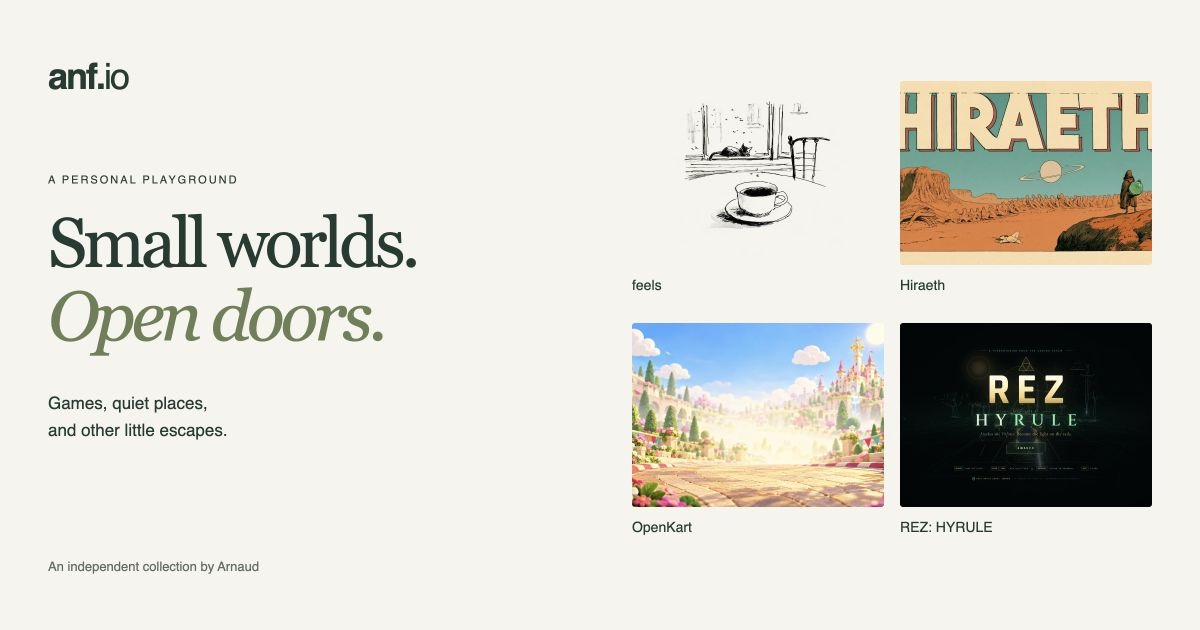
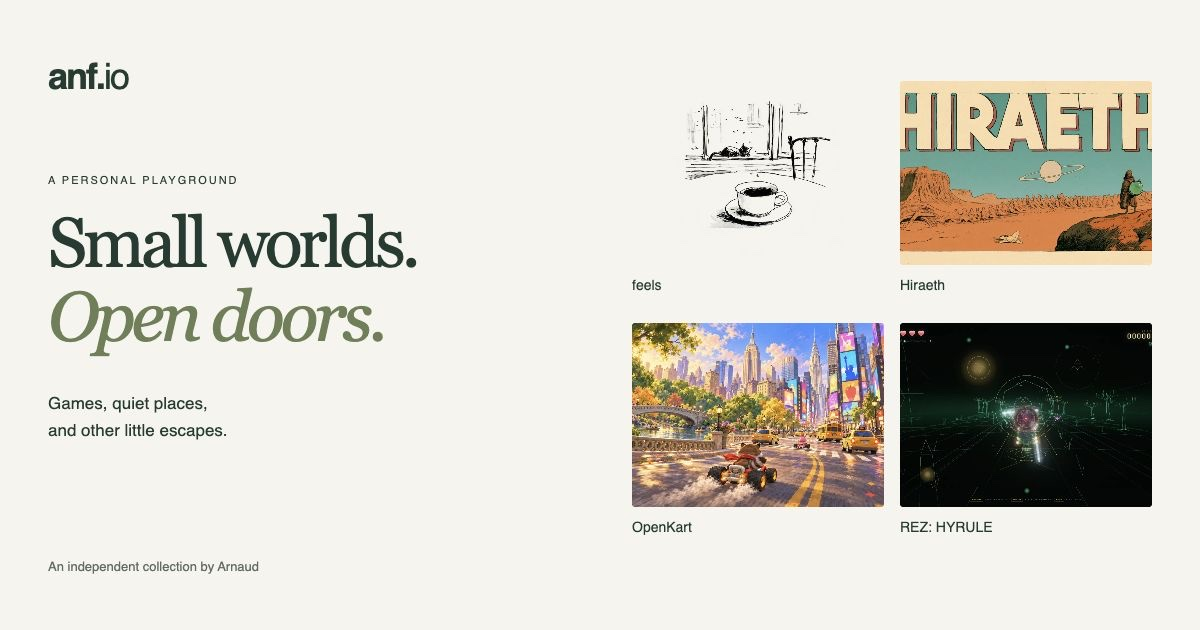
Show NYC track reference and REZ gameplay on project cards

diff --git a/index.html b/index.html
@@ -75,7 +75,7 @@
 
             <a class="project openkart" href="https://rnaud.github.io/openkart/" aria-labelledby="openkart-title openkart-action" aria-describedby="openkart-description">
               <div class="project-art">
-                <img src="/assets/openkart.webp" width="1200" height="675" alt="OpenKart garden artwork: a sunlit course winds through flowers toward a pastel castle" loading="lazy" decoding="async">
+                <img src="/assets/openkart-nyc.webp" width="960" height="540" alt="New York Rush track reference: animal racers drift past Central Park, yellow taxis, and the Manhattan skyline" loading="lazy" decoding="async">
                 <span class="art-index" aria-hidden="true">03</span>
                 <span class="art-tag">One more lap</span>
               </div>
@@ -86,7 +86,7 @@
 
             <a class="project rez" href="https://rnaud.github.io/rez-hyrule/" aria-labelledby="rez-title rez-action" aria-describedby="rez-description">
               <div class="project-art">
-                <img src="/assets/rez-hyrule.webp" width="1200" height="750" alt="REZ: HYRULE title screen glowing gold and green over a wireframe kingdom" loading="lazy" decoding="async">
+                <img src="/assets/rez-hyrule-gameplay.webp" width="1200" height="750" alt="REZ: HYRULE gameplay: the glowing hero targets enemies along green wireframe rails" loading="lazy" decoding="async">
                 <span class="art-index" aria-hidden="true">04</span>
                 <span class="art-tag">Follow the rhythm</span>
               </div>

diff --git a/README.md b/README.md
@@ -55,8 +55,8 @@ The thumbnails reuse artwork from the projects, resized and encoded locally:
 
 - `feels.webp`: feels’ selected home illustration (`public/references/midjourney/home.png`).
 - `hiraeth.webp`: Hiraeth’s desert title artwork (`references/Title Screen/A4-desert.jpg`).
-- `openkart.webp`: OpenKart’s garden menu artwork (`assets/ui/storybook-garden.webp`).
-- `rez-hyrule.webp`: REZ: HYRULE’s title screenshot (`screenshots/title.png`).
+- `openkart-nyc.webp`: OpenKart’s New York Rush track reference (`assets/levels/newyork.jpg`).
+- `rez-hyrule-gameplay.webp`: REZ: HYRULE’s gameplay screenshot (`screenshots/gameplay.png`).
 - `social.jpg`: a 1200 × 630 sharing card composed from this site’s typography and the four thumbnails.
 
 The first three images are project artwork, not gameplay screenshots. REZ: HYRULE is an unofficial fan tribute, unaffiliated with Nintendo or Sega.
